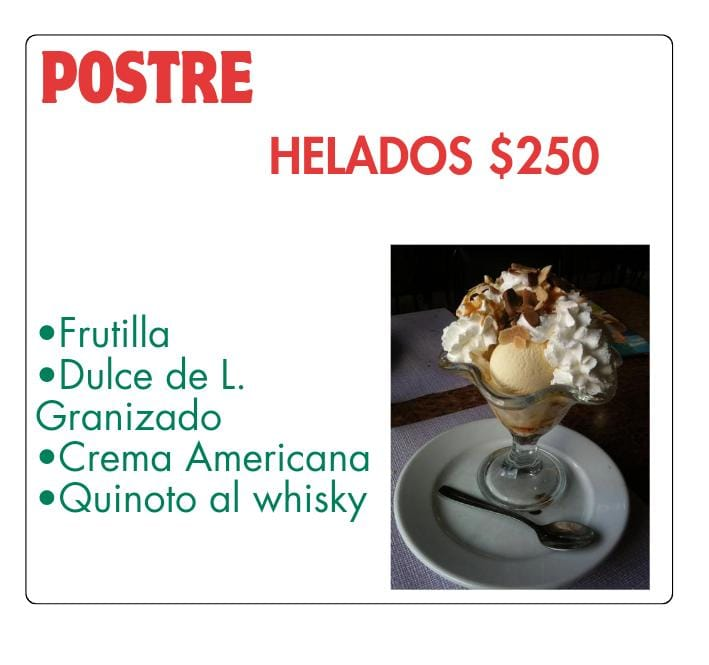
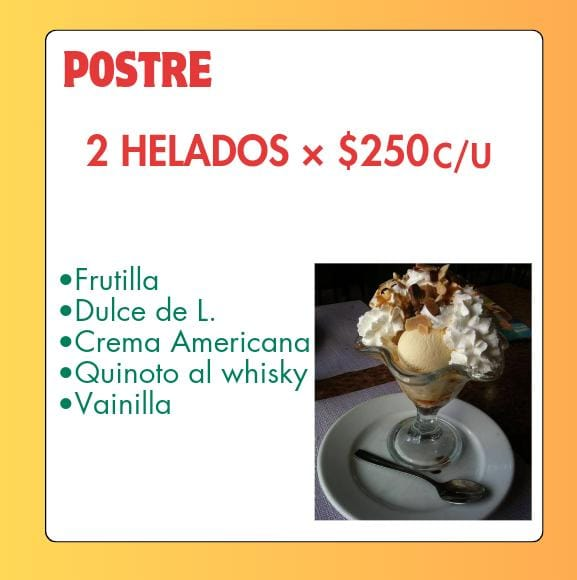
Cambio de imagenes
agregue las imagenes nuevas y borre las que estaban, y cambie los valores del slider-frame ya que hay 3 y de los porcentajes del key

diff --git a/css/estilos.css b/css/estilos.css
@@ -261,16 +261,15 @@ nav {
   }
   
   .slider-frame img {
-    width: 100%; /* Ajusta las imágenes al 100% del contenedor */
-    height: auto; /* Permite que la altura se ajuste proporcionalmente */
-    object-fit: cover; /* Ajusta el tamaño de las imágenes para que cubran el contenedor */
+    width: 100%;
+  height: auto;
   }
 
 
 .slider-frame ul {
     display: flex;
     padding: 0;
-    width: 400%;
+    width: 300%; 
     animation: slide 20s infinite alternate ease-in-out;
 }
 
@@ -285,16 +284,16 @@ nav {
 
 @keyframes slide {
     0% { margin-left: 0;}
-    20% {margin-left: 0;}
+    28% {margin-left: 0;}
     
-    25% {margin-left: -100%;} 
-    45% {margin-left: -100%;}
+    33% {margin-left: -100%;} 
+    61% {margin-left: -100%;}
     
-    50% { margin-left: -200%;}
-    70% { margin-left: -200%;}
+    66% { margin-left: -200%;}
+    94% { margin-left: -200%;}
     
-    75% { margin-left: -300%;} 
-    100% { margin-left: -300%;}
+    99% { margin-left: -200%;} 
+    100% { margin-left: -200%;}
 }
 
 /*---------------footer--------*/

diff --git a/index.html b/index.html
@@ -91,9 +91,8 @@
             <div class="subCaja">
             <ul>
                 <li><img src="img/Helado (1).jpeg" alt="Imagen 1"></li>
-                <li><img src="img/Helado2 (2).jpeg" alt="Imagen 2"></li>
-                <li><img src="img/Pizza (3).jpeg" alt="Imagen 3"></li>
-                <li><img src="img/Hambur (4).jpeg" alt="Imagen 4"></li>
+                <li><img src="img/Pizza (2).jpeg" alt="Imagen 2"></li>
+                <li><img src="img/Hambur (3).jpeg" alt="Imagen 3"></li>
             </ul>
             <button class="boton1">sig</button>
             <button class="boton2">ant</button>
